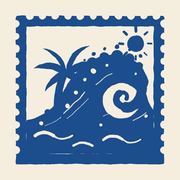
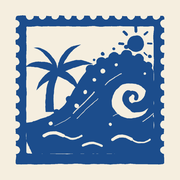
「絵の具」表記をやめ、横スワイプでタブ移動、アイコン調整
- パレットの見出しを「選んでカレンダーをなぞる」に、説明文もわかりやすく
- スマホでカレンダーを左右スワイプすると隣のタブ(海→プール→海外→トリップ)へ
  (行き方を選んで塗っている最中はカレンダー上では反応しない)
- ログアウト時に開いていたトリップ/募集ページを閉じる(次の人にそのまま見えていた)
- アイコン: ヤシの木を左へ、波を右へ寄せて間を空ける
- Service Worker のキャッシュ名を v3 に

Claude-Session: https://claude.ai/code/session_01YJ4aJdBi8Pih4aaSyeuZ7k

diff --git a/index.html b/index.html
@@ -345,7 +345,7 @@ h2{font-size:1.05rem; margin:0 0 10px; letter-spacing:.02em;}
   <div id="view-cal" class="screen">
     <div id="genre-tabs"></div>
     <div class="palette-box">
-      <div class="palette-label">🎨 絵の具 ─ 選んでカレンダーをなぞる</div>
+      <div class="palette-label">選んでカレンダーをなぞる</div>
       <div id="palette"></div>
       <div id="paint-hint"></div>
     </div>
@@ -859,6 +859,10 @@ async function confirmLogout(){
 }
 async function doLogout(){
   closeModal(); spin(true);
+  // 開いていたトリップページ・募集ページを閉じて、次の人はカレンダーから始まるようにする
+  stopPostPolling(); state.tripPageId = null; state.recruitPageId = null;
+  $('view-trip').classList.add('hidden'); $('view-recruit').classList.add('hidden');
+  $('view-cal').classList.remove('hidden');
   try { await sb.from('app_sessions').delete().neq('member_id', '00000000-0000-0000-0000-000000000000'); } catch(e){}
   await sb.auth.signOut();
   state.me = null;
@@ -1026,8 +1030,8 @@ function renderPalette(){
   $('paint-hint').textContent =
     state.paint === 'eraser' ? '消したい日をなぞってね(過去の日は「行かなかった」になります)' :
     state.paint === 'went' ? '実際に行った日(過去)をなぞってね。もう一度なぞると取り消し' :
-    state.paint ? `「${intentDef(state.genre, state.paint).label}」で塗るよ。日付をなぞってね` :
-    '絵の具を選ぶと塗れるよ。今は見るモード(日付タップでみんなの予定)';
+    state.paint ? `「${intentDef(state.genre, state.paint).label}」にする日をなぞってね(もう一度なぞると取り消し)` :
+    '上のボタンをどれか選ぶと、なぞった日に予定が入ります。今は日付タップでみんなの予定が見られます';
 }
 function setPaint(key){
   state.paint = (state.paint === key) ? null : key;
@@ -1303,7 +1307,7 @@ $('cal-grid').addEventListener('pointerdown', (e) => {
 
   if (state.paint === 'eraser') stroke.mode = 'erase';
   else if (state.paint === 'went') stroke.mode = wentMap()[ds] === true ? 'erase' : 'paint';   // 行った→もう一度で取り消し
-  else if (mine[ds] && normIntent(mine[ds].intent) === state.paint) stroke.mode = 'erase'; // 同じ絵の具→トグルで解除
+  else if (mine[ds] && normIntent(mine[ds].intent) === state.paint) stroke.mode = 'erase'; // 同じ行き方→トグルで解除
   else stroke.mode = 'paint';
 
   applyStrokeToCell(cell, ds);
@@ -1342,6 +1346,36 @@ $('cal-grid').addEventListener('pointercancel', () => {
   clearTimeout(stroke.longTimer);
   if (stroke.active) { stroke.active = false; renderCalendar(); }
 });
+
+// ===== 横スワイプで隣のタブへ(海 → プール → 海外 → トリップ…) =====
+// スマホのタッチだけが対象。塗るモードでカレンダー上をなぞっているときは反応しない。
+const swipe = { x: 0, y: 0, t: 0, ok: false };
+function genreOrder(){ return [...GENRES, ...state.trips.map(t => 'trip:' + t.id)]; }
+function swipeTargetOk(el){
+  if (el.closest('#genre-tabs, #sheet, #modal, input, textarea, select, button')) return false;
+  if (state.paint && el.closest('#cal-grid')) return false;   // 塗っている最中
+  return true;
+}
+$('view-cal').addEventListener('touchstart', (e) => {
+  swipe.ok = e.touches.length === 1 && swipeTargetOk(e.target);
+  if (!swipe.ok) return;
+  swipe.x = e.touches[0].clientX; swipe.y = e.touches[0].clientY; swipe.t = Date.now();
+}, { passive: true });
+$('view-cal').addEventListener('touchend', (e) => {
+  if (!swipe.ok || !e.changedTouches.length) return;
+  swipe.ok = false;
+  const dx = e.changedTouches[0].clientX - swipe.x, dy = e.changedTouches[0].clientY - swipe.y;
+  if (Date.now() - swipe.t > 800 || Math.abs(dx) < 60 || Math.abs(dy) > Math.abs(dx) * 0.6) return;
+  swipeGenre(dx < 0 ? 1 : -1);
+}, { passive: true });
+function swipeGenre(dir){
+  const order = genreOrder();
+  const i = order.indexOf(state.genre);
+  if (i < 0) return;
+  const next = order[i + dir];
+  if (!next) return;                       // 端では何もしない
+  setGenre(next);
+}
 
 function applyStrokeToCell(cell, ds){
   if (stroke.days.has(ds)) return;

diff --git a/sw.js b/sw.js
@@ -1,7 +1,7 @@
 /* サーフィン行こ Service Worker
    index.html は network-first(常に最新を取りに行き、オフライン時だけキャッシュ)。
    これでアプリ更新時に古い画面が残る問題を防ぎます。 */
-const CACHE = 'surf-iko-v2';
+const CACHE = 'surf-iko-v3';
 const ASSETS = ['./index.html', './manifest.json', './icons/icon-192.png', './icons/icon-512.png'];
 
 self.addEventListener('install', (e) => {

diff --git a/README.md b/README.md
@@ -1,16 +1,17 @@
 # サーフィン行こ 🌊
 
 サーフィン仲間(10人くらい)で「いつ・どこへ行けるか」を共有するアプリです。
-絵の具(=行き方)を選んで、カレンダーを指でなぞるだけで予定を登録できます。
+行き方(行く/誰か行こう/ワンチャン)を選んで、カレンダーを指でなぞるだけで予定を登録できます。
 スマホのホーム画面に置いて使えます(PWA)。
 
 ## 使い方(3ステップ)
 
-1. **絵の具を選ぶ** … 「海/プール/海外」タブの下に並ぶチップから、行き方を1つタップ
+1. **行き方を選ぶ** … 「海/プール/海外」タブの下に並ぶボタンから、行き方を1つタップ
 2. **なぞる** … カレンダーの日付を指でなぞると、その日が塗られる(1日だけならタップ)
-3. **もう一度なぞると消える** … 同じ絵の具でなぞると解除。消しゴムでまとめて消すのもOK
+3. **もう一度なぞると消える** … 同じ行き方でなぞると解除。消しゴムでまとめて消すのもOK
 
-- 絵の具を選んでいないとき(見るモード)に日付をタップすると、その日に予定がある仲間の一覧が見られます
+- 行き方を選んでいないとき(見るモード)に日付をタップすると、その日に予定がある仲間の一覧が見られます
+- スマホでは、カレンダーを左右にスワイプすると隣のタブ(海 → プール → 海外 → トリップ)に移れます
 - 塗った日を長押しすると「一言メモ」が付けられます
 - **自分の予定を見せる相手は、自分で選びます**(「仲間」タブの「見せる」にチェック)。チェックしていない人には、あなたの海・プール・海外の予定は見えません(管理者も同じ)
 - 相手が見せてくれると、あなたのカレンダーにその人の予定が小さな点で重なって表示されます(「表示」のチェックで消すこともできます)
@@ -63,7 +64,7 @@
 - 「行く」で塗った日と、確定したトリップの日は、**日付が過ぎると自動で「行った」**になります
   - トリップは実際に行く人(コアで「行く」の人と、募集で確定した人)だけ。その日に「行けない」と答えていた人は数えません
 - 行かなかった日は、カレンダーでその日を**消しゴム**でなぞると「行かなかった」になります(自動記録でも復活しません)
-- 予定に入れていなかったけれど行った日は、絵の具の **「✓ 行った」** で過去の日をなぞると記録に入ります。もう一度なぞると取り消し
+- 予定に入れていなかったけれど行った日は、ボタンの **「✓ 行った」** で過去の日をなぞると記録に入ります。もう一度なぞると取り消し
 - 「自分」タブで、これまで・今年の日数と、海/プール/海外/トリップ別の内訳が見られます(同じ日は1日として数えます)
 
 ---
@@ -218,7 +219,7 @@ Supabase無料プランは、しばらく使わないと一時停止します。
 ① このURLをSafariで開いて、共有ボタン→「ホーム画面に追加」
    https://umi-iko.github.io/
 ② 名前「(登録した名前)」とPIN「(初期PIN・6桁)」でログイン
-③ 絵の具を選んで、行ける日をカレンダーで指でなぞるだけ!
+③ 行き方を選んで、行ける日をカレンダーで指でなぞるだけ!
 ```
 
 ---
